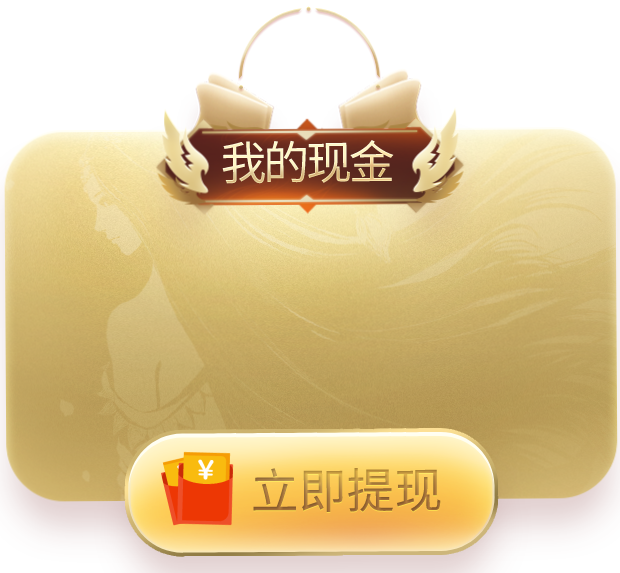
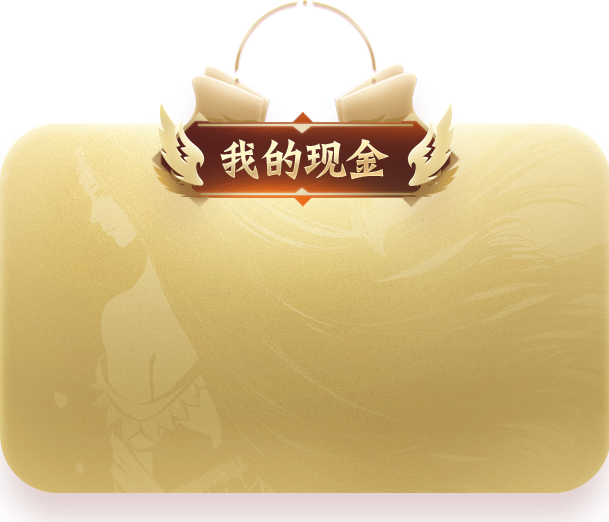
Invite Log, done

diff --git a/components/InviteLog/LogTable.tsx b/components/InviteLog/LogTable.tsx
@@ -1,0 +1,63 @@
+import React from "react";
+import Image from "next/image";
+import styles from "./index.module.css";
+
+const UserInfo = () => {
+
+    return (
+        <div className={styles.table_user_info}>
+            <div className={styles.table_user_info_avatar}>
+                <Image className={styles.avatar_img} src="/avatar.png" alt="" width={30} height={30} layout="responsive" />
+            </div>
+            <div className={styles.table_user_info_nickname}>好友昵称好友昵称好友昵称</div>
+        </div>
+    )
+}
+
+const LogTable = () => {
+
+    return (
+        <div className={styles.invite_log_table}>
+            <div className={styles.invite_log_table_header}>
+                <div className={styles.table_header_col}>
+                    <div className={styles.table_header_content}>好友头像</div>
+                </div>
+                <div className={styles.table_header_col}>
+                    <div className={styles.table_header_content}>注册时间</div>
+                </div>
+                <div className={styles.table_header_col}>
+                    <div className={styles.table_header_content}>连续登录天数</div>
+                </div>
+            </div>
+            <div className={styles.invite_log_table_body}>
+                <div className={styles.table_body_row}>
+                    <UserInfo />
+                    <time>2021.09.21</time>
+                    <div className={styles.table_login_days}>0/7</div>
+                </div>
+                <div className={styles.table_body_row}>
+                    <UserInfo />
+                    <time>2021.09.21</time>
+                    <div className={styles.table_login_days}>0/7</div>
+                </div>
+                <div className={styles.table_body_row}>
+                    <UserInfo />
+                    <time>2021.09.21</time>
+                    <div className={styles.table_login_days}>0/7</div>
+                </div>
+                <div className={styles.table_body_row}>
+                    <UserInfo />
+                    <time>2021.09.21</time>
+                    <div className={styles.table_login_days}>0/7</div>
+                </div>
+                <div className={styles.table_body_row}>
+                    <UserInfo />
+                    <time>2021.09.21</time>
+                    <div className={styles.table_login_days}>0/7</div>
+                </div>
+            </div>
+        </div>
+    )
+};
+
+export default LogTable;

diff --git a/components/InviteLog/index.module.css b/components/InviteLog/index.module.css
@@ -1,0 +1,113 @@
+.invite_log {
+    padding-top: 40px;
+    width: 330px;
+    height: 445px;
+    background-image: url("../../assets/modal-bg-2.png");
+    background-size: cover;
+    background-repeat: no-repeat;
+}
+
+.invite_log_progress {
+    margin-bottom: 14px;
+    line-height: 1;
+    font-size: 40px;
+    color: rgb(153, 40, 40);
+}
+
+.invite_log_progress_cur {
+    color: rgb(255, 212, 84);
+}
+
+.invite_log_progress_tips {
+    display: flex;
+    align-items: center;
+    justify-content: center;
+    margin-bottom: 44px;
+    font-size: 14px;
+    color: rgb(255, 242, 214);
+}
+
+.invite_log_table {
+    padding: 0 18px;
+    margin-bottom: 20px;
+}
+
+.invite_log_table_header {
+    display: flex;
+    justify-content: space-between;
+}
+
+.invite_log_table_header {
+    padding: 6px 0;
+    border-bottom: 1px solid rgb(246, 240, 236);
+}
+
+.invite_log_table_body {
+    height: 140px;
+    overflow: auto;
+    font-size: 10px;
+    color: rgb(119, 38, 38);
+}
+
+.table_header_col {
+    flex: 1;
+}
+
+.table_body_row {
+    display: flex;
+    justify-content: space-between;
+    align-items: center;
+    padding: 6px 0;
+    border-bottom: 1px solid rgb(246, 240, 236);
+}
+
+.table_body_row > div,
+.table_body_row > time {
+    flex: 1;
+}
+
+.table_header_content {
+    display: inline-block;
+    padding: 3px 12px;
+    border-radius: 19px;
+    font-size: 12px;
+    color: rgb(121, 104, 104);
+    background-color: rgb(246, 240, 236);
+}
+
+.table_login_days {
+    font-size: 14px;
+}
+
+.table_user_info {
+    display: flex;
+    align-items: center;
+}
+
+.table_user_info_avatar {
+    margin-right: 6px;
+    width: 30px;
+    height: 30px;
+    border-radius: 50%;
+    border: 1px solid rgb(210, 186, 119)
+}
+
+.table_user_info_avatar img {
+    border-radius: 50%;
+}
+
+.table_user_info_nickname {
+    width: 60px;
+    overflow: hidden;
+    text-overflow: ellipsis;
+    white-space: nowrap;
+}
+
+.invite_log_btn {
+    margin-bottom: 13px;
+}
+
+.invite_log_tips {
+    font-size: 12px;
+    color: rgb(121, 104, 104);
+}

diff --git a/components/InviteLog/index.tsx b/components/InviteLog/index.tsx
@@ -1,0 +1,46 @@
+import React, { useState } from "react";
+import Image from "next/image";
+import LogButton from "../LogButton";
+import TDModal from "../TDModal";
+import LogTable from "./LogTable";
+import ICON_FRIENDS from "../../assets/friends.png";
+import styles from "./index.module.css";
+import OpButton from "../OpButton";
+
+const InviteLog = () => {
+
+    const [visible, setVisible] = useState<boolean>(false);
+
+    return (
+        <React.Fragment>
+            <LogButton
+                icon={<Image src={ICON_FRIENDS} alt="好友邀请记录" width={19} height={19} />}
+                text="好友邀请记录"
+                onClick={() => setVisible(true)}
+            />
+            <TDModal
+                visible={visible}
+                onClose={() => setVisible(false)}
+            >
+                <div className={styles.invite_log}>
+                    <div className={styles.invite_log_progress}>
+                        <span className={styles.invite_log_progress_cur}>4</span>
+                        /
+                        <span>10</span>
+                    </div>
+                    <div className={styles.invite_log_progress_tips}>
+                        <Image src={ICON_FRIENDS} alt="好友邀请记录" width={19} height={19} />
+                        <span style={{marginLeft: 3}}>邀请好友进度</span>
+                    </div>
+                    <LogTable />
+                    <div className={styles.invite_log_btn}>
+                        <OpButton text="邀请更多好友" mode="red" />
+                    </div>
+                    <div className={styles.invite_log_tips}>活动期间最多邀请10位好友哦~</div>
+                </div>
+            </TDModal>
+        </React.Fragment>
+    )
+}
+
+export default InviteLog;

diff --git a/components/Landing/GameInfo.tsx b/components/Landing/GameInfo.tsx
@@ -8,25 +8,25 @@ import styles from "./GameInfo.module.css";
 
 const GameInfo = () => {
 
-  const [visible, setVisible] = useState<boolean>(false);
+	const [visible, setVisible] = useState<boolean>(false);
 
-  return (
-    <div className={styles.game_info}>
-      <Image src={PNG_GAMEINFO_BG} alt="" width={310} height={286} layout="responsive" />
-      <div className={styles.avatar}>
-        <Image className={styles.avatar_img} src="/avatar.png" alt="" width={56} height={56} layout="responsive" />
-      </div>
-      <div className={styles.bind} onClick={() => setVisible(true)}>
-        <div className={styles.icon_info}>
-          <Image src={PNG_PROFILE} alt="" width={12} height={12} layout="responsive" />
-        </div>
-        <span>绑定游戏账号信息</span>
-      </div>
-      <BindInfo visible={visible} onClose={() => setVisible(false)} />
-      <MoneyProgress />
-      <button className={styles.get_cash}></button>
-    </div>
-  )
+	return (
+		<div className={styles.game_info}>
+			<Image src={PNG_GAMEINFO_BG} alt="" width={305} height={261} layout="responsive" />
+			<div className={styles.avatar}>
+				<Image className={styles.avatar_img} src="/avatar.png" alt="" width={56} height={56} layout="responsive" />
+			</div>
+			<div className={styles.bind} onClick={() => setVisible(true)}>
+				<div className={styles.icon_info}>
+					<Image src={PNG_PROFILE} alt="" width={12} height={12} layout="responsive" />
+				</div>
+				<span>绑定游戏账号信息</span>
+			</div>
+			<BindInfo visible={visible} onClose={() => setVisible(false)} />
+			<MoneyProgress />
+			<button className={styles.get_cash}></button>
+		</div>
+	)
 }
 
 export default GameInfo;

diff --git a/components/Landing/Operation.tsx b/components/Landing/Operation.tsx
@@ -1,9 +1,7 @@
 import React from "react";
-import Image from "next/image";
 import OpButton from "../OpButton";
-import LogButton from "../LogButton";
-import ICON_FRIENDS from "../../assets/friends.png";
-import ICON_CASHLOG from "../../assets/money.png";
+import InviteLog from "../InviteLog";
+import GetCashLog from "../GetCashLog";
 import styles from "./Operation.module.css";
 
 const Operation = () => {
@@ -23,15 +21,9 @@ const Operation = () => {
         />
       </div>
       <div className={styles.operation_log}>
-        <LogButton
-          icon={<Image src={ICON_FRIENDS} alt="好友邀请记录" width={19} height={19} />}
-          text="好友邀请记录"
-        />
+        <InviteLog />
         <div className={styles.operation_log_divider} />
-        <LogButton
-          icon={<Image src={ICON_CASHLOG} alt="获取现金记录" width={19} height={19} />}
-          text="获取现金记录"
-        />
+        <GetCashLog />
       </div>
     </div>
   )

diff --git a/components/GetCashLog/index.tsx b/components/GetCashLog/index.tsx
@@ -1,0 +1,28 @@
+import React, { useState } from "react";
+import Image from "next/image";
+import LogButton from "../LogButton";
+import TDModal from "../TDModal";
+import ICON_CASHLOG from "../../assets/money.png";
+
+const GetCashLog = () => {
+
+    const [visible, setVisible] = useState<boolean>(false);
+
+    return (
+        <React.Fragment>
+            <LogButton
+                icon={<Image src={ICON_CASHLOG} alt="获取现金记录" width={19} height={19} />}
+                text="获取现金记录"
+                onClick={() => setVisible(true)}
+            />
+            <TDModal
+                visible={visible}
+                onClose={() => setVisible(false)}
+            >
+                <div>GetCashLog</div>
+            </TDModal>
+        </React.Fragment>
+    )
+}
+
+export default GetCashLog;

diff --git a/components/LogButton/index.tsx b/components/LogButton/index.tsx
@@ -4,13 +4,14 @@ import styles from "./index.module.css";
 interface LogButtonProps {
   icon: JSX.Element;
   text: string;
+  onClick: () => void;
 }
 const LogButton: React.FC<LogButtonProps> = (props) => {
 
   const {icon, text} = props;
 
   return (
-    <div className={styles.log_btn}>
+    <div className={styles.log_btn} onClick={props.onClick}>
       <div className={styles.log_btn_icon}>{icon}</div>
       <div>{text}</div>
     </div>
